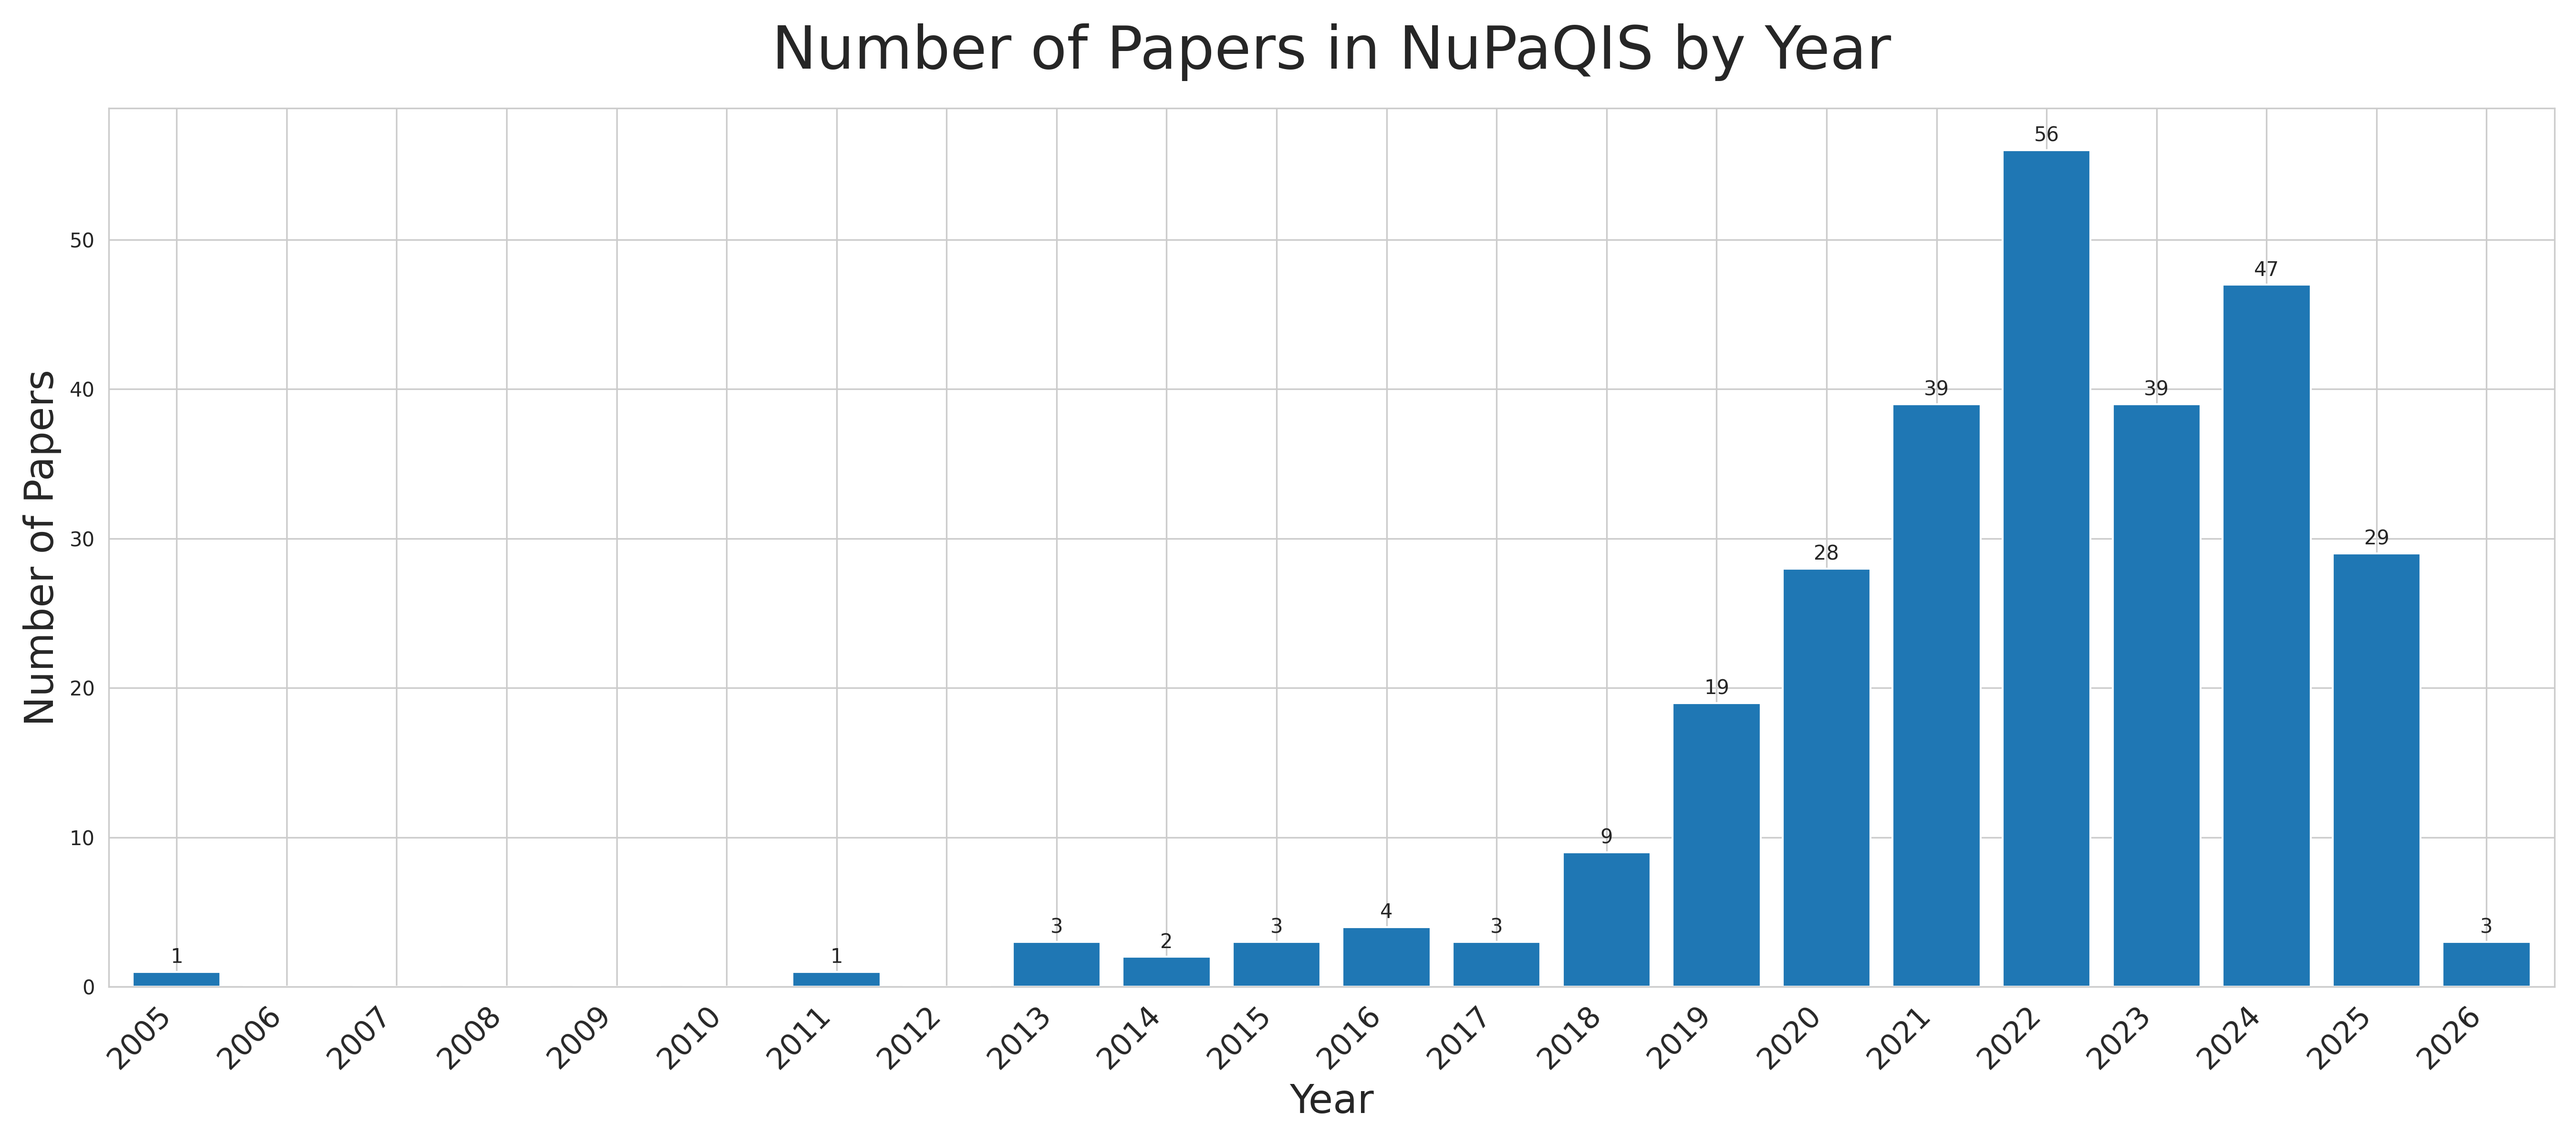
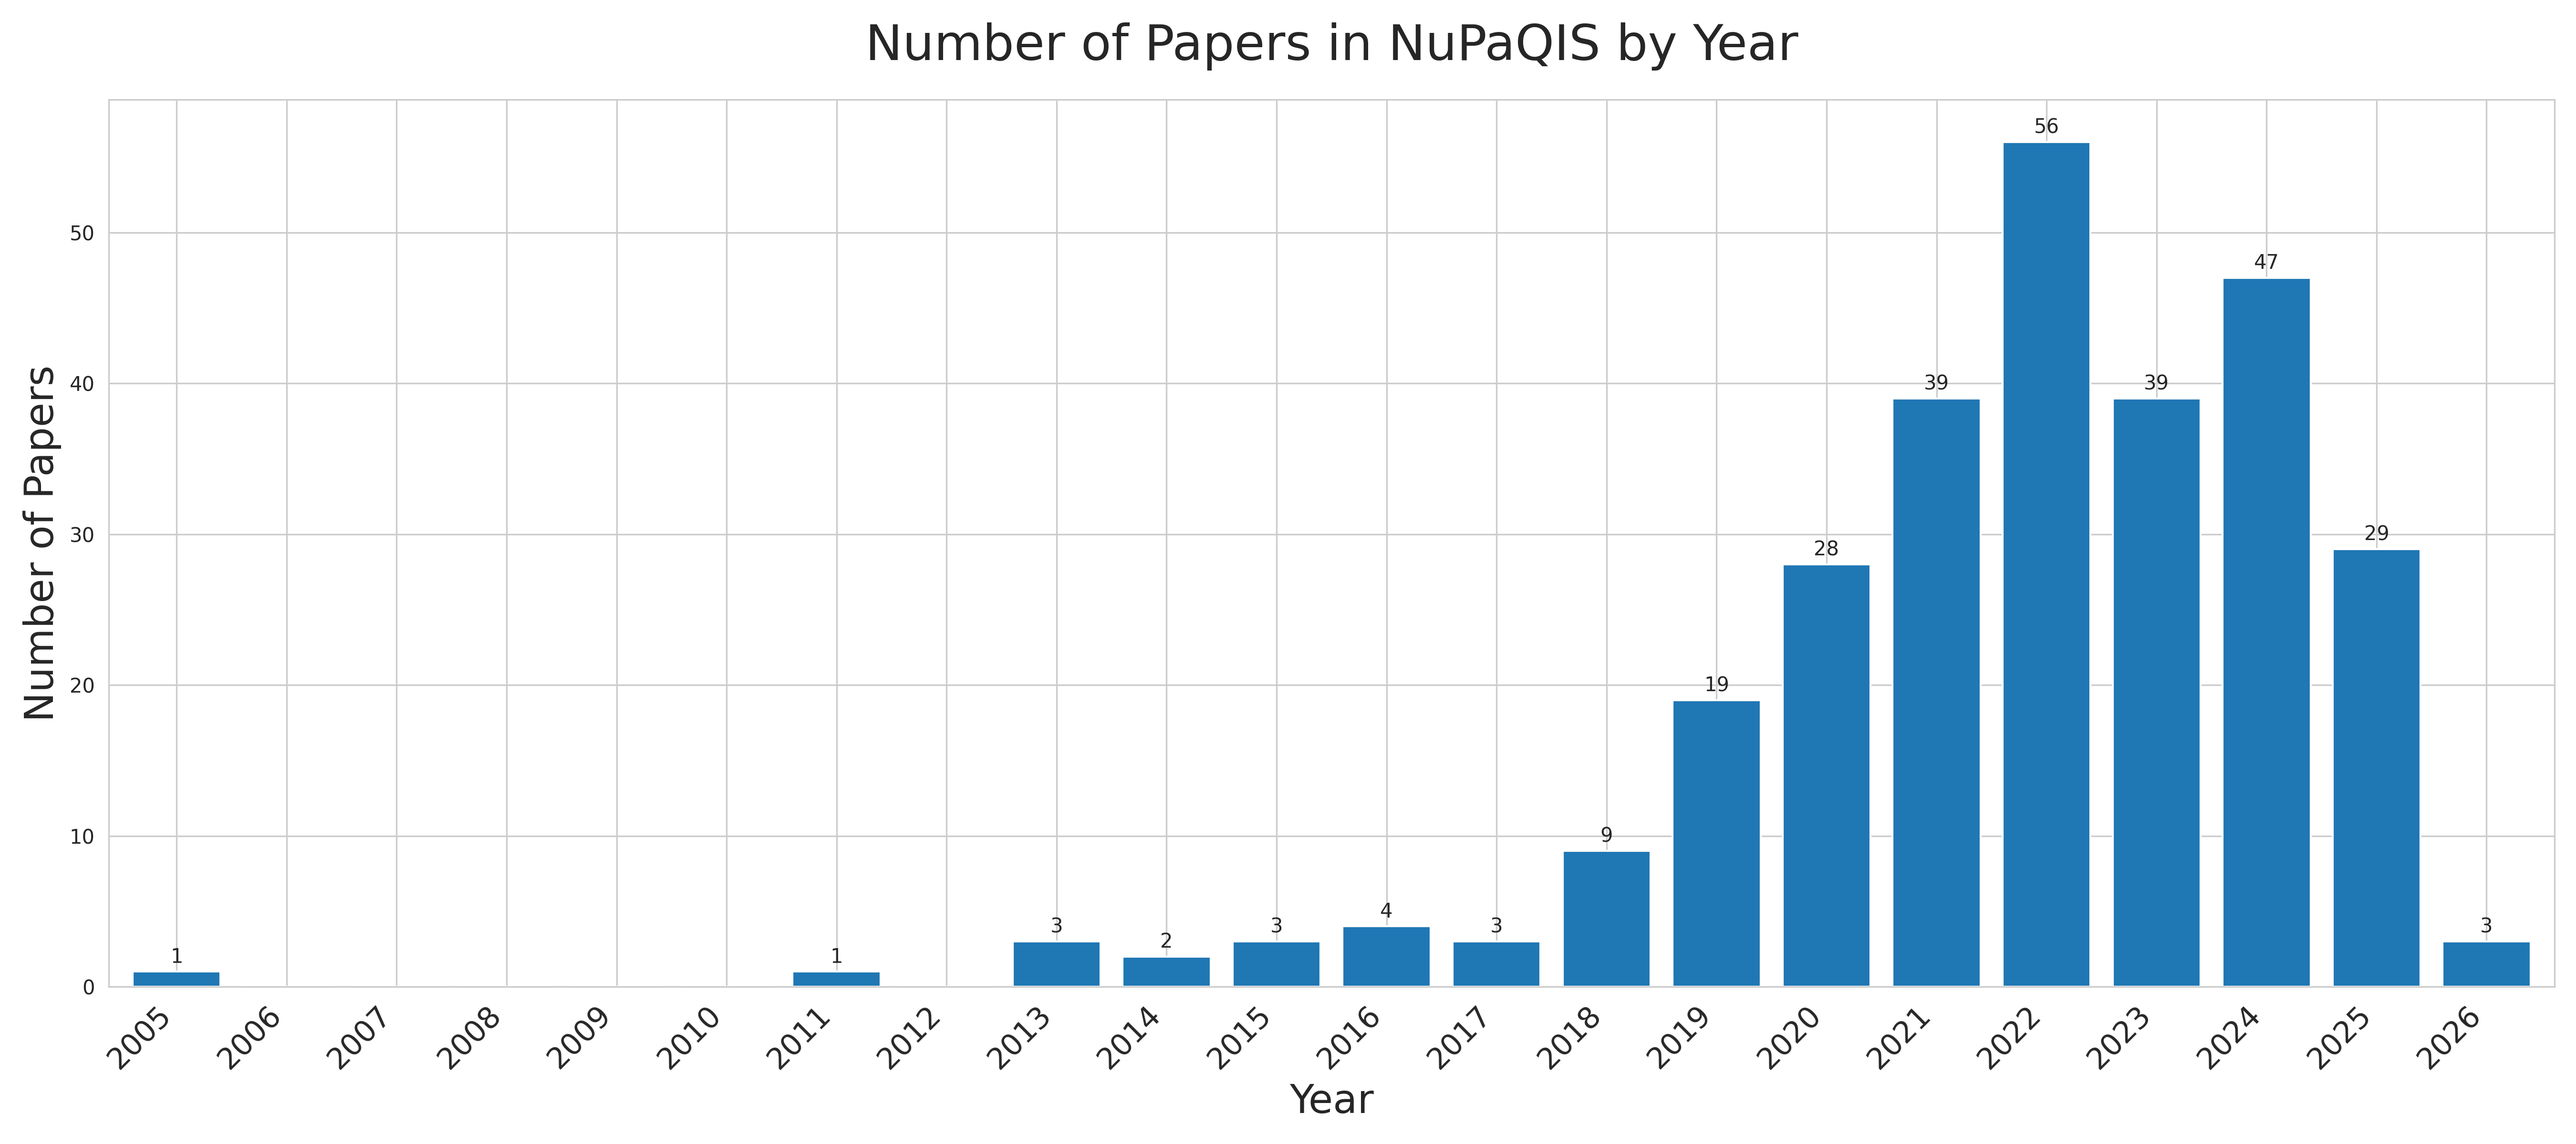
Fixed plots

diff --git a/utils.py b/utils.py
@@ -274,9 +274,9 @@ def plot_histogram(df, run):
     bar_color = "skyblue" if run == 'NUPA' else "lightgreen"
     # Plot
     bars = plt.bar(counts.index, counts.values, color=bar_color)
-    plt.xlabel("%s Categories" % title, fontsize=12)
-    plt.ylabel("Number of Papers", fontsize=12)
-    plt.title("Number of Papers in the %s Category" % title, fontsize=16, pad=20)
+    plt.xlabel("%s Categories" % title, fontsize=13)
+    plt.ylabel("Number of Papers", fontsize=13)
+    plt.title("Number of Papers in the %s Category" % title, fontsize=15, pad=20)
     plt.xticks(rotation=75, ha='right', fontsize=10)
 
     # Add value labels above each bar
@@ -324,6 +324,8 @@ def plot_2D_nupaqis_heatmap(df, categories_nupa, categories_qis, heatmap_nupa, h
         ticks=np.arange(len(qis_heatmap)),
         labels=xlabels,
         rotation=45,
+        ha='right',
+        rotation_mode='anchor',
         fontsize=15,
     )
     plt.yticks(
@@ -371,7 +373,7 @@ def histogram_by_year(df):
         bars = ax.bar(counts.index, counts.values)
         ax.set_xlabel("Year", fontsize=20)
         ax.set_ylabel("Number of Papers", fontsize=20)
-        ax.set_title("Number of Papers in NuPaQIS by Year", fontsize=30, pad=20)
+        ax.set_title("Number of Papers in NuPaQIS by Year", fontsize=25, pad=20)
         ax.set_xticks(list(counts.index))
         ax.set_xticklabels(counts.index, rotation=45, ha='right', fontsize=15)
         ax.margins(x=0.01)
